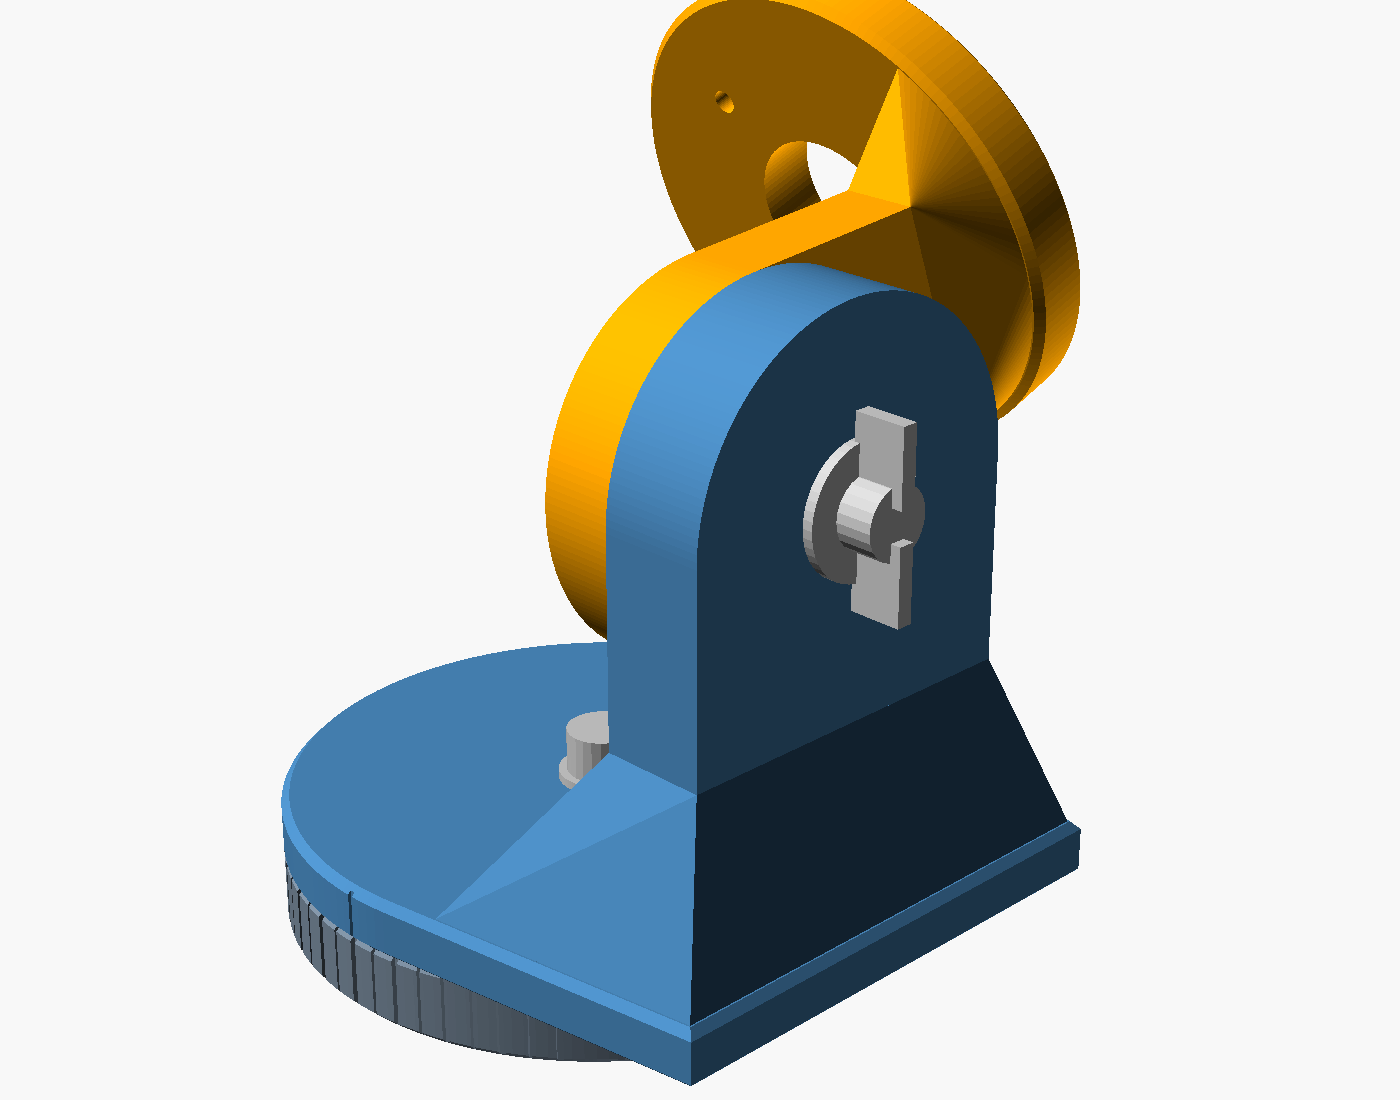
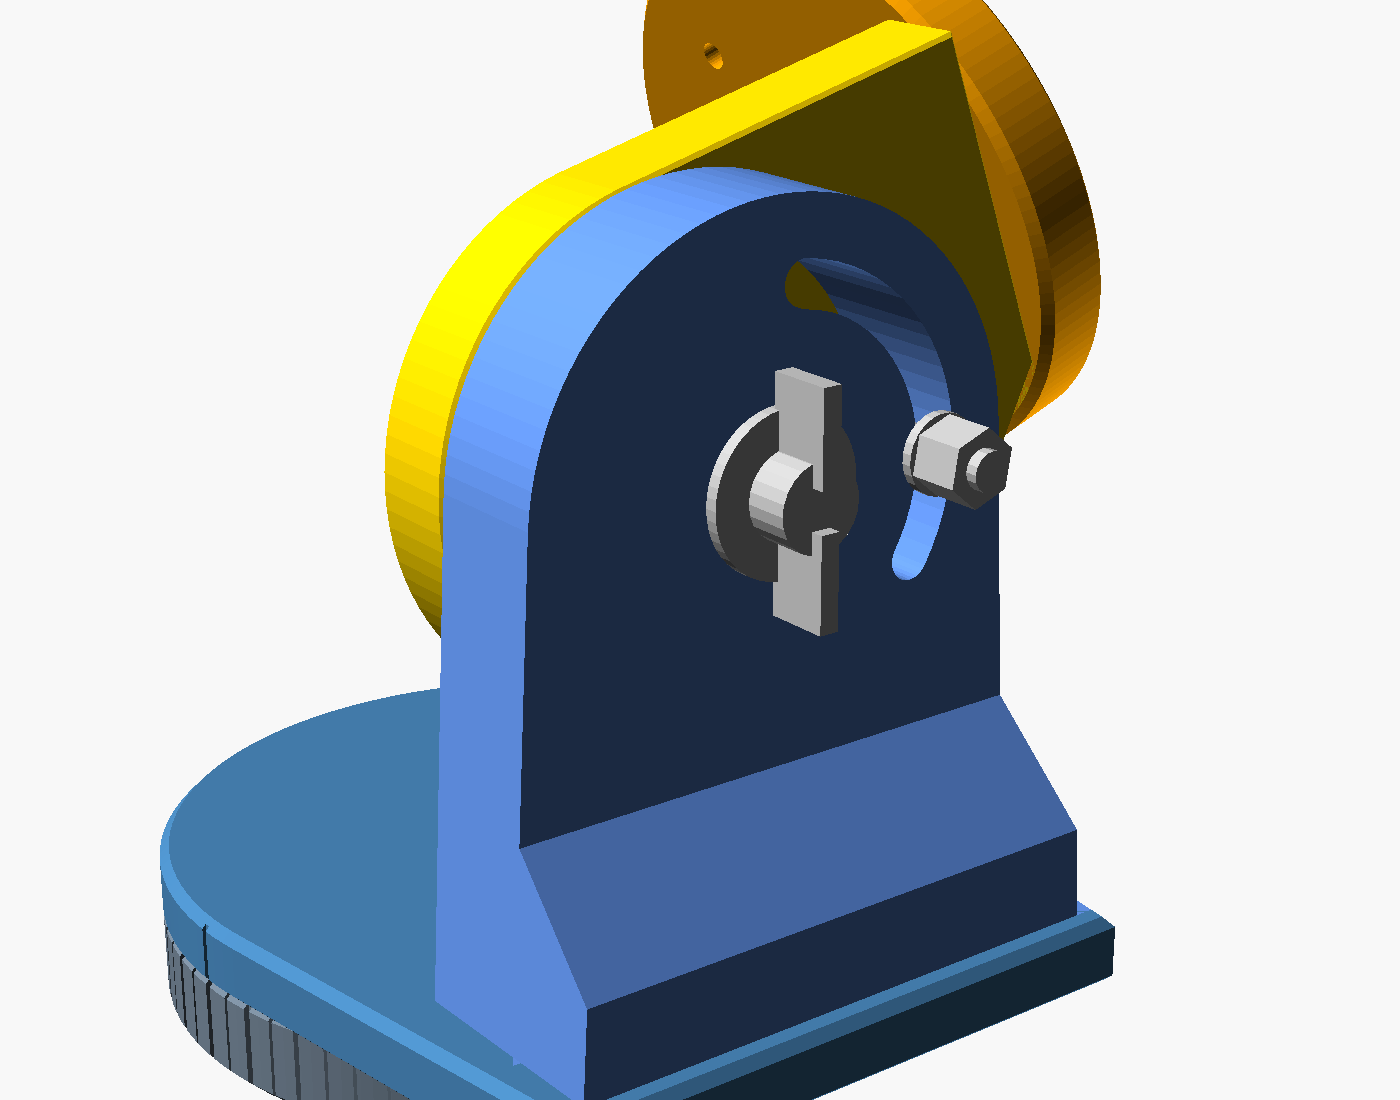
Simple mount docs: split parts, joints, arc lock and base-less option
Rewrite SIMPLE-MOUNT.md for the five-part kit: options table (app
setting and SCAD parameter), print orientations, the insert joints and
their screw lengths, arc-lock hardware, assembly order including the
base-less mounting, and the expanded check list. Add
scripts/render-mount.py, which redraws the four OpenSCAD images.

Claude-Session: https://claude.ai/code/session_01HpRGHRhsuGuEyXYX9D8dgd

diff --git a/scripts/render-mount.py b/scripts/render-mount.py
@@ -1,0 +1,47 @@
+"""Render the simple mount's documentation images with OpenSCAD (uses xvfb-run when present, for headless use).
+Usage: python3 scripts/render-mount.py [outdir]     (default docs/)
+Writes simple-mount.png (assembly with the dish), simple-mount-clamps.png (elevation clamp and arc lock),
+simple-mount-print.png (all parts in print orientation) and simple-mount-joints.png (the bolted joints, exploded).
+"""
+import sys, pathlib, shutil, subprocess, tempfile
+
+ROOT = pathlib.Path(__file__).resolve().parents[1]
+SCAD = ROOT / 'cad/simple-mount.scad'
+OUT = pathlib.Path(sys.argv[1]) if len(sys.argv) > 1 else ROOT / 'docs'
+
+def render(name, camera, defs=(), size=(1400, 1100), src=SCAD):
+    """camera: eye x,y,z, center x,y,z"""
+    args = (['xvfb-run', '-a'] if shutil.which('xvfb-run') else []) + ['openscad', '-o', str(OUT / name), f'--imgsize={size[0]},{size[1]}',
+            '--colorscheme=Tomorrow', '--projection=p', f'--camera={camera}']
+    for d in defs: args += ['-D', d]
+    subprocess.run(args + [str(src)], check=True, capture_output=True)
+    print('rendered', OUT / name, flush=True)
+
+PRINT_LAYOUT = f'''include <{SCAD}>
+translate([-300, 0, 0]) color("slategray") multmatrix(M_base) base();
+translate([-150, 0, 0]) color("steelblue") multmatrix(M_yoke) yoke();
+translate([-10, -20, 0]) color("cornflowerblue") multmatrix(M_upright) upright();
+translate([135, 0, 0]) color("orange") multmatrix(M_cradle) cradle();
+translate([230, 10, 0]) color("gold") multmatrix(M_cheek) cheek();
+'''
+
+EXPLODED = f'''include <{SCAD}>
+color("slategray") translate([0,0,-45]) base();
+color("steelblue") yoke();
+for (s=up_screws) translate([s[0], s[1], yoke_z - 35]) flathead(up_screw_len);
+color("cornflowerblue") translate([0,0,40]) upright();
+translate([-45, 0, Z_el + 40]) rotate([el,0,0]) {{
+  color("orange") translate([0, 45, 0]) cradle();
+  for (z=ch_screws) translate([ch_x, L + 80, z]) rotate([90,0,0]) flathead(ch_screw_len);
+  color("gold") cheek();
+}}
+'''
+
+if __name__ == '__main__':
+    OUT.mkdir(exist_ok=True)
+    render('simple-mount.png', '520,-330,330,10,60,60', ['el=20', 'arc_lock=true'])
+    render('simple-mount-clamps.png', '330,-220,210,30,10,75', ['el=20', 'show_dish=false', 'arc_lock=true'])
+    with tempfile.TemporaryDirectory() as d:
+        p = pathlib.Path(d) / 'layout.scad'
+        p.write_text(PRINT_LAYOUT); render('simple-mount-print.png', '-45,-640,560,-45,10,0', ['part="none"', 'arc_lock=true'], (1600, 800), p)
+        p.write_text(EXPLODED); render('simple-mount-joints.png', '-430,-420,300,20,40,60', ['part="none"', 'el=20', 'arc_lock=true'], (1400, 1100), p)

diff --git a/docs/SIMPLE-MOUNT.md b/docs/SIMPLE-MOUNT.md
@@ -1,44 +1,63 @@
 # Simple alt-az mount
 
-![Simple mount with a 400 mm PETAL at 20° elevation](simple-mount.png)
+![Simple mount with a 400 mm PETAL at 20° elevation, arc lock fitted](simple-mount.png)
 
-Three printed parts and one clamp per axis. Each clamp is two flat faces squeezed by one M8 bolt: loosen, aim, tighten.
+Five printed parts and one clamp per axis. Each clamp is two flat faces squeezed by one M8 bolt: loosen, aim, tighten. The two arms, the upright and the cheek, are separate parts bolted on with M4 heat-set inserts. That lets every part print flat, with no supports.
 
 | | |
 |---|---|
-| Parts | Base, yoke, cradle |
+| Parts | Base, yoke, upright, cradle, cheek. Without the base: four parts |
 | Azimuth | 360°. The yoke turns on the base; one bolt in the center, tightened with a hex key from above |
-| Elevation | −10° to 100°, checked with the dish fitted. The cradle's cheek clamps against the inside of the yoke's upright, with one wing nut |
+| Elevation | −10° to 100°, checked with the dish fitted. The cheek clamps against the inside of the upright, with one wing nut. Optional arc lock: a second bolt in an arc slot |
 | Scale | Azimuth grooves down the base rim every 5°, wide every 10°, read at the groove on the back of the yoke |
-| Mounting | 4 × M5 flat-head through the base |
-| Supports | Overhang scan passes; inspect your slicer toolpath |
+| Joints | Upright → yoke plate: 4 × M4 flat-head from below. Cheek → cradle plate: 3 × M4 flat-head from the hub face. All into heat-set inserts, heads flush |
+| Mounting | 4 × M5 flat-head through the base, or through the yoke plate without the base |
+| Supports | None. The overhang scan passes for every part; inspect your slicer toolpath |
+
+## Options
+
+Set them in PETAL under **Aiming mount**, or in `cad/simple-mount.scad`:
+
+| App setting | SCAD parameter | Effect |
+|---|---|---|
+| Azimuth base: *Printed base with azimuth scale* (default) | `stand_holes = false` | Base + yoke turntable with the azimuth clamp and the scale |
+| Azimuth base: *No base · turntable bolts to the stand* | `stand_holes = true` | No base part. The yoke plate gets 4 countersunk M5 holes from its top and screws straight onto a flat stand. No azimuth clamp: turn the stand to aim in azimuth |
+| Elevation lock: *Add arc-slot lock bolt* | `arc_lock = true` | An M6 bolt runs in an arc slot through the upright, from a captive head in the cheek, for extra grip. It covers the whole −10° to 100° range |
 
 ## Generator integration
 
-Enable **Aiming mount** in PETAL 5.3. The app embeds the canonical STLs, applies the same assembly transforms in the viewer/PDF/SCAD snapshot, includes mount parts in plate packing, and checks printed-part interference at the selected pose. It reports the below-base clearance at that pose and the geometric minimum stand height across the displayed elevation range. Add stand/cable/handling margin. The stand, hardware envelopes and complete collision sweep are not runtime-certified.
+Enable **Aiming mount** in PETAL 5.3. The app embeds the canonical STLs for the selected options, applies the same assembly transforms in the viewer/PDF/SCAD snapshot, includes mount parts in plate packing, and checks printed-part interference at the selected pose. It reports the clearance below the lowest mount face at that pose and the geometric minimum stand height across the displayed elevation range. Add stand/cable/handling margin. The stand, hardware envelopes and complete collision sweep are not runtime-certified.
 
 For **blind hub inserts**, use M4 × 18 through the 12 mm cradle with a 1 mm head washer, nominal 5 mm entry. Never use the through-bolt length in a blind insert. For **through bolts**, use the generated schedule; M4 × 30 is the default 400 mm setup.
+
+The kinematic frame is the same for every option: elevation axis 94 mm above the base bottom (base 14 + yoke plate 10 + 70), hub face 75 mm ahead of the axis, clamp faces at x = 40. Without the base the yoke bottom, 14 mm up in that frame, is the lowest face, and the app measures stand clearance from it.
 
 ## Design choices
 
 - **One adjustment per axis.** Elevation is a single clamp on one side. It's asymmetric on purpose, so there's one wing nut to work instead of two.
-- **Bigger faces to make up for one joint.** Both clamp faces are round, r 35 around the elevation axis. They share about 39 cm² of contact.
-- **Flared, not thin.** The upright and the cheek are straight only where they clamp. Below that they flare out on every side, all the way to the edges of their plates: the upright across the yoke plate, and the cheek across the hub plate up to the hub screws. No thin wall meets a plate at a right angle. Layer adhesion is process- and material-dependent; the flare spreads load into the plate.
-- **Clamp faces where they print best.** The azimuth faces print against the bed, so they come out flat and smooth.
+- **Split arms for print orientation.** The upright and the cheek print lying on their clamp faces. The clamp faces come out flat, both elevation bolt holes and the arc slot are vertical in the print, and the layers run along each arm, the way the dish bends it. The plates print on their bearing faces.
+- **Bolted joints that resist the moment both ways.** The upright stands on the yoke plate on 4 screws: two under the arm itself (x 48) and two in a foot flange on its outer side (x 69), 64 mm apart. The dish's weight tips the upright inward, which loads the flange screws, and anything that tips it outward loads the inner pair. A low shoulder on the plate locates the upright's inner face. The large triangular flare of the one-piece yoke is gone.
+- **Countersunk heads, no bridges.** All joint and stand screws are 90° flat-heads. The countersinks open toward the bed, so their 45° cones print without support where a counterbore would need bridging. The heads finish flush or just below the face: under the yoke plate that is the azimuth bearing face, and on the cradle it is the face the dish hub bears on.
+- **Bigger faces to make up for one joint.** Both elevation arms are round, r 40 around the axis, about 50 cm² of contact.
+- **The cheek end stays inside the plate rim.** Its end face is 14 × 68 mm at the inner edge, with 45° chamfers at the outer corners, so all of it bears on the plate inside the rim chamfer. It clears the four hub bolt heads behind the plate.
 
-![Elevation clamp from the rear](simple-mount-clamps.png)
+![Elevation clamp and arc lock from the outside](simple-mount-clamps.png)
 
 ## Parts
 
-STLs are in `cad/STL/`, already in print orientation.
+STLs are in `cad/STL/`, already in print orientation. Use the variant that matches your options.
 
 | Part | STL | Prints | Size (mm) |
 |---|---|---|---|
-| Base | `simple-base.stl` | Clamp face down | Ø116 × 14 |
-| Yoke | `simple-yoke.stl` | Plate down, upright standing | 130 × 116 × 115 |
-| Cradle | `simple-cradle.stl` | Hub face down, cheek standing | Ø94 × 110 |
+| Base | `simple-base.stl` | Top (clamp) face down | Ø116 × 14 |
+| Yoke | `simple-yoke.stl`; without the base `simple-yoke-stand.stl` | Bearing face down | 138 × 116 × 18 |
+| Upright | `simple-upright.stl`; with arc lock `simple-upright-arc.stl` | Lying on its clamp face (x = 40) | 110 × 88 × 36 |
+| Cradle | `simple-cradle.stl` | Hub face down | Ø94 × 12 |
+| Cheek | `simple-cheek.stl`; with arc lock `simple-cheek-arc.stl` | Lying on its clamp face (x = 40) | 103 × 80 × 14 |
 
 ![Print orientation](simple-mount-print.png)
+
+The cradle keeps the hub interface: Ø94 × 12 plate, Ø34 port, 4 × M4 on a 60 mm circle.
 
 **Material:** use a qualified ASA or reinforced ASA profile for the rigid mount parts, with slip and warm-creep tests. This is separate from the flexible clip material; filled filament is not automatically suitable for repeatedly flexed snaps.
 
@@ -46,70 +65,98 @@ STLs are in `cad/STL/`, already in print orientation.
 - 5–6 walls.
 - 30–40% infill.
 - Elephant-foot compensation on.
+- Insert pilots are Ø5.6 × 8 mm blind holes with pointed roofs where they lie horizontal in the print. Check your insert supplier's recommended hole, and test one on a scrap print first.
 
 ## Hardware
 
 | Qty | Item | Use |
 |---|---|---|
-| 1 | M8 × 25 socket head, washer, nut | Azimuth. The nut sits in the pocket under the base |
-| 1 | M8 × 40 hex bolt, fender washer (24–30 mm OD), wing nut | Elevation. The head sits in a hex pocket on the inside of the cradle cheek |
+| 1 | M8 × 25 socket head, washer, nut | Azimuth (base only). The nut sits in the pocket under the base |
+| 1 | M8 × 40 hex bolt, fender washer (24–30 mm OD), wing nut | Elevation. The head sits in a hex pocket on the inside of the cheek |
+| 7 | M4 heat-set insert, 6 mm long or shorter, for a Ø5.6 pilot | 4 in the bottom of the upright, 3 in the cheek's end face |
+| 4 | M4 × 16 flat-head (ISO 10642 / DIN 7991) | Upright → yoke plate, up from below |
+| 3 | M4 × 18 flat-head (ISO 10642 / DIN 7991) | Cheek → cradle plate, from the hub face |
 | 4 | M4 × 30 socket head, 2 washers, nut | Cradle → PETAL hub. Head behind the cradle plate; washer and nut in the seats on the hub front |
-| 4 | M5 flat-head screw | Base → your stand |
+| 4 | M5 flat-head screw | Base → your stand, or yoke plate → your stand without the base |
+| 1 | M6 × 45 hex bolt (ISO 4017), M6 washer 12 mm OD, M6 nyloc nut | Arc lock only. Head captive in the cheek; washer and nyloc on the upright's outside |
+
+Joint screw lengths are the plate thickness plus the 6 mm insert: the tips stop about 1.5 mm short of the pilot bottoms. Use a nyloc or flange nut on the arc lock, not a wing nut: its wings would foul the M8 wing nut. The Ø12 washer is the largest that clears the M8 wing nut's swept circle (Ø39).
 
 ## Assembly
 
-1. **Base on the stand.**
+![The bolted joints, exploded](simple-mount-joints.png)
+
+1. **Inserts.**
+   - Heat-set 4 inserts into the pilots in the bottom of the upright and 3 into the cheek's end face, each flush with its face.
+   - Let them cool. Scrape off any raised rim so the mating faces stay flat.
+2. **Upright on the yoke plate.**
+   - Stand the upright on the plate against the locating shoulder.
+   - Drive the 4 × M4 × 16 up through the plate from underneath. The heads must finish flush with or below the bottom face.
+3. **Base on the stand** (with the base).
    - Press the M8 nut into the pocket underneath.
    - Screw the base down with the 4 × M5 flat-heads.
-2. **Yoke.**
-   - Set it on the base.
-   - Drop in the M8 × 25 and washer and tighten it into the nut with a 6 mm hex key.
-3. **Cradle on the dish.**
+   - Set the yoke on the base. Drop in the M8 × 25 and washer and tighten it into the nut with a 6 mm hex key.
+4. **Yoke on the stand** (without the base).
+   - Put the yoke plate, upright already fitted, on a flat stand.
+   - Drive the 4 × M5 flat-heads down through its countersinks, heads flush. They are reached from above beside the upright, so do this before the cradle goes on.
+5. **Cheek on the cradle.** Fit the cheek to the back of the cradle plate with the 3 × M4 × 18 from the hub face, heads flush. Do this before the dish hub covers that face.
+6. **Cradle on the dish.**
    - Push the 4 × M4 × 30 with washers through the cradle plate from behind, then through the hub.
    - Put a washer and nut on each in the Ø10 seats on the hub front and tighten.
-4. **Elevation bolt.** Seat the M8 × 40 head in the pocket on the inside of the cradle cheek.
-5. **Cradle on the yoke.**
-   - Slide the bolt out through the upright.
-   - Add the fender washer and wing nut on the outside.
+7. **Elevation bolt.** Seat the M8 × 40 head in its pocket on the inside of the cheek. With the arc lock, also seat the M6 × 45 head in the second pocket.
+8. **Cradle on the upright.**
+   - Slide the M8 out through the upright, and the M6 into the arc slot.
+   - Add the fender washer and wing nut on the outside, and the M6 washer and nyloc.
 
 ## Using it
 
-- **Azimuth:**
+- **Azimuth (with the base):**
   - Loosen the center bolt from above.
   - Turn the dish, read the rim ticks at the yoke's rear groove, then tighten.
   - The key reaches the bolt with the dish anywhere from −10° to 30°.
+- **Azimuth (without the base):** there is no azimuth clamp. Turn or re-fix the stand. The central Ø8.5 hole stays open.
 - **Elevation:**
-  - Hold the dish, loosen the wing nut, set the angle and tighten.
+  - Hold the dish, loosen the wing nut (and the arc lock nyloc), set the angle and tighten the wing nut, then snug the nyloc with a 10 mm wrench.
+  - The arc slot's ends stop the cradle just beyond −10° and 100°.
   - Read the angle with a phone inclinometer on the dish rim or the back of the hub plate.
-- **Clearance:** at −10° the rim hangs 129 mm below the base. Mount the base at least that high.
+- **Clearance:** at −10° the rim hangs 129 mm below the base bottom, or 143 mm below the yoke plate without the base. Mount the lowest face at least that high.
 - **With snap-clip seams:** the clips hang about 6–9 mm farther behind the dish than the flanges. Elevation then clears from −7.5° to 100°.
 
 ## Loads
 
 - **Elevation:**
   - About 1.2 N·m per kg of dish at the horizon.
-  - Grip depends on actual preload, friction, contact and temperature; no allowable holding torque is established.
+  - Grip depends on actual preload, friction, contact and temperature; no allowable holding torque is established. The arc lock adds a second clamp point 28 mm from the axis; it is not rated either.
   - If it creeps, stop and review preload, material, bearing stress and clamp design. Do not solve slip by indefinitely increasing torque.
 - **Off-center load:** the dish sits about 40 mm off the clamp. The single joint carries that sideways moment through the full face and the bolt.
-- **Azimuth:** only wind loads it, over 99 cm² of contact.
+- **Joints:** the insert joints are not load-rated. Check them for creep and loosening along with the clamps.
+- **Azimuth:** only wind loads it, over 98 cm² of contact.
 
 ## Validation
 
 ### `scripts/check-simple-mount.py <stl dir>`
-It places the STLs with the same transforms as the SCAD and checks:
+It reads the print transforms from the SCAD, places all eight STLs with them, and checks the default, arc-lock and no-base variants:
 
-- **Bed fit:** closed, single-body meshes that fit the bed.
+- **Bed fit and printability:** closed, single-body meshes that fit the bed, and an overhang scan: nothing faces down more than 45° from vertical, and no bridges longer than 10 mm.
+- **Joints:**
+  - The upright sits flush on the yoke plate (30 cm²) and the cheek on the cradle plate (6.6 cm²), each face bearing fully.
+  - All 7 flat-heads seat with their heads flush and stop short of the pilot ends; the inserts fit their pilots with at least 2 mm of plastic around them.
+  - The screws clear every other bolt, head and nut.
 - **Clamp contact:**
-  - Azimuth: 99 cm².
-  - Elevation: 38–40 cm² across the range.
-- **Hardware:** the bolts, head and wing nut sit in their holes and pockets at every angle.
-- **Elevation travel:** −10° to 100°, clear of the yoke and hardware. The first contact is at −22.5°.
-- **Dish clearance:** the dish clears the yoke and base over the same range. With snap-clip seams, modeled as a ring 26 mm deep behind the dish, it clears from −7.5° to 100°.
+  - Azimuth: 98 cm².
+  - Elevation: 48–53 cm² across the range, 44–49 cm² with the arc slot.
+- **Hardware:** the bolts, heads and wing nut sit in their holes and pockets at every angle.
+- **Elevation travel:** −10° to 100°, clear of the yoke, upright and hardware. The first contact is at −22.5°.
+- **Arc lock:** the M6 runs clear through the slot from −10° to 100°, and its washer stays inside both clamp faces and clear of the M8 fender washer and wing nut at every angle. The slot ends stop travel at about −12° and 102°.
+- **Dish clearance:** the dish clears the yoke, upright and base over the same range. With snap-clip seams, modeled as a ring 26 mm deep behind the dish, it clears from −7.5° to 100°.
 - **Azimuth sweep:** everything that turns clears the base all the way around, at −10°, 0°, 45° and 90°.
-- **Tool access:** the hex key reaches the azimuth bolt.
-- **Hub interface:** the M4 holes and the Ø34 port are open with straight access from behind, and the root nuts and washers behind the hub are clear.
+- **Tool access:** the hex key reaches the azimuth bolt, and a Ø10 driver reaches each stand screw with the upright fitted.
+- **Hub interface:** the M4 holes and the Ø34 port are open with straight access from behind. The root nuts and washers behind the hub and the hub bolt heads behind the plate are clear. The joint countersinks sit between the port, the hub bolts and the rim.
 
 ### `scripts/check-printability.py cad/STL/simple-*.stl`
-All three parts pass: nothing steeper than 45° and no flat ceilings.
+All eight parts pass: nothing steeper than 45° and no flat ceilings.
+
+### Regenerating
+`python3 scripts/pack-mount.py --export` re-exports every STL variant from the SCAD and rebuilds `dist/mount-meshes.js`, with each part's frame and the inverse of its SCAD print transform. `python3 scripts/render-mount.py` redraws these images.
 
 These are geometry checks. Grip and creep need a physical test: set the dish at 0°, tighten everything, leave it somewhere warm for 48–72 hours, re-tighten once after the first day, then check the angle again.
